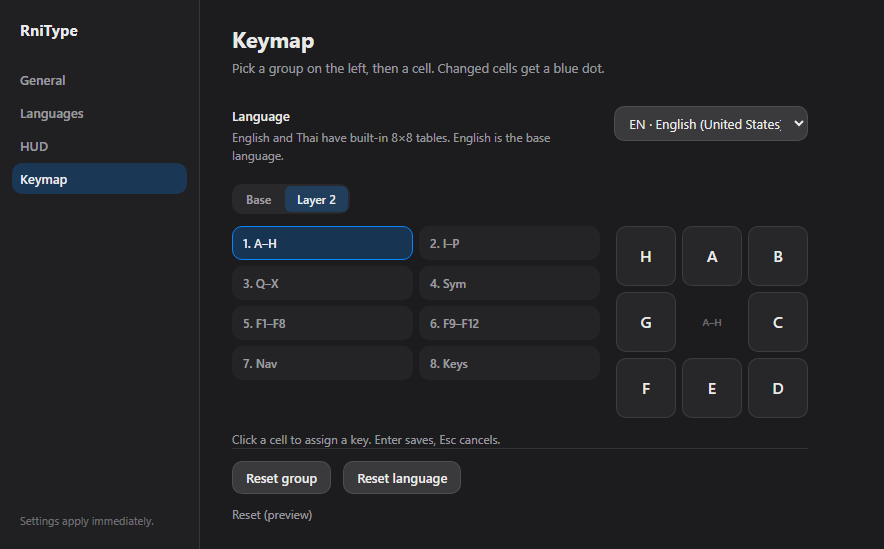
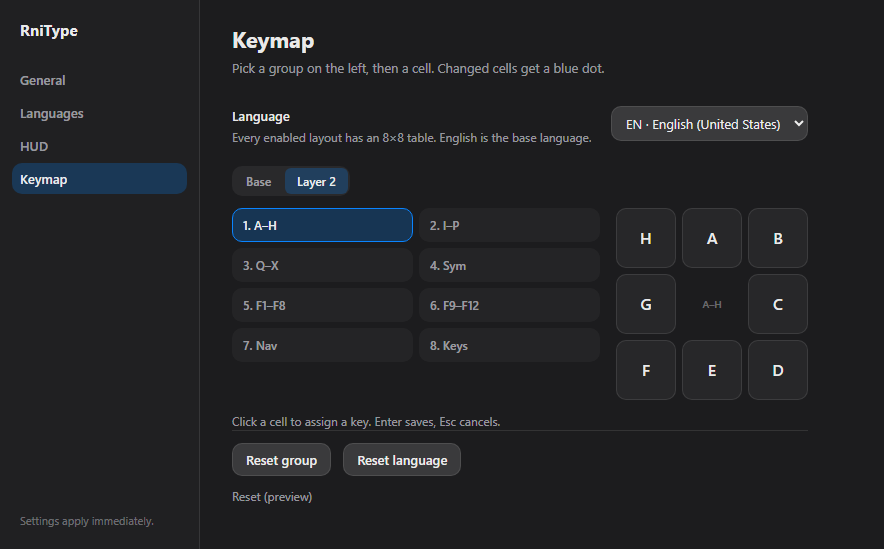
docs: ADR-28/29 + handoff v1.2 for universal layouts and P6 stats

diff --git a/project menager/Design/HANDOFF.md b/project menager/Design/HANDOFF.md
@@ -1,11 +1,11 @@
 ---
 title: HANDOFF — RniType (อ่านก่อนเริ่ม session ใหม่)
-status: v1.1
+status: v1.2
 updated: 2026-11-16
 tags: [handoff]
 ---
 
-# HANDOFF — RniType v1.1 (2026-11-16)
+# HANDOFF — RniType v1.2 (2026-11-16)
 
 > เอกสารนี้ทำให้ session ใหม่ทำงานต่อได้ใน \~5 นาที · อ่านจบ = รู้ทุกอย่างที่จำเป็น
 
@@ -15,11 +15,11 @@ tags: [handoff]
 | --- | --- |
 | ผลิตภัณฑ์ | Windows background utility: จอย Xbox/DualSense ใช้ **พิมพ์แทนคีย์บอร์ด** และ **แทนเมาส์** มีหน้าตั้งค่าแบบ Logi Options+ |
 | ช่องทางขาย | Steam + itch.io (ทั้งคู่รับ .exe/.zip — ไม่ต้องใช้เอนจิน) |
-| สถานะ | **P0/P1 ปิด · P2 slice 4 · P3 slice 2 · P4/P5 slice 1–3 · P6 slice 1 · visual refresh (ADR-22) — 213 tests** |
+| สถานะ | **P0/P1 ปิด · P2 slice 4 · P3 slice 2 · P4/P5 slice 1–4 · P6 slice 1–2 · visual refresh (ADR-22) — 219 tests** |
 | สแตก | **Rust** (core) + **Tauri v2** (UI/tray) + **gilrs** (จอย, XInput) + `SendInput` (auto scancode/Unicode) |
 | แผนสำรอง | C# .NET 8 + WPF/WinUI (ถอยได้ทุกเมื่อ เอกสารใช้ร่วมกันได้) |
-| งานถัดไป | **universal QWERTY mapping** (RU/EL) หรือ **P6 ที่เหลือ** (error rate/CPU, installer) |
-| ค้างยืนยัน | owner retest §4.8 — quick bar/caret/sticky drag, exclusion/scancode, Settings, WPM, **Keymap editor** |
+| งานถัดไป | **IME passthrough** หรือ **error rate จากข้อความอ้างอิง** หรือ **installer/Steam/itch** |
+| ค้างยืนยัน | owner retest §4.8 — quick bar/caret/sticky drag, exclusion/scancode, Settings, WPM, Keymap, **RU/EL บนจอยจริง** |
 
 ## 2. การตัดสินใจที่ล็อกแล้ว (ห้ามถามซ้ำ)
 
@@ -47,7 +47,9 @@ tags: [handoff]
 23. **P3 slice 2 (ADR-24)**: **exclusion/UIPI guard** ตรวจ foreground ทุก 250 ms → exe ใน `system.exclusion` หรือ target elevated → หยุด `session.step`, HUD `disabled` + เหตุผล, กลับมาเป็น mode เดิม · **scancode path อัตโนมัติ** (`VkKeyScanExW` + `MapVirtualKeyExW` ตาม HKL ของ foreground) → เกม/IME เห็นเหมือนคีย์บอร์ดจริง, พิมพ์ไม่ได้ = Unicode fallback, `--no-scancode` ปิดได้ · **`timeBeginPeriod(1)`** ระหว่างรัน loop — [[24-target-guard-scancode-timer]]
 24. **P5 slice 2 (ADR-25)**: **General** = status (`get_status`/`app:status`) + Pause + **exclusion list UI** · **Languages** = `GetKeyboardLayoutList` → EN/TH built-in แสดงเสมอ, EN = base (locked), ภาษาอื่นต้องมี mapping, เปิดได้ ≤ 8 · **live reload** `config_rev` → runtime เปลี่ยนภาษา/pivot clamp ภายใน 250 ms · Reset แยก section (general/hud/languages/all) — [[25-settings-general-languages-live-reload]]
 25. **P6 slice 1 (ADR-26)**: **WPM = 5 ตัวอักษร/คำ ในหน้าต่าง 60 วิ** (นับเฉพาะ `Key::Char`) · **action latency** = เวลา `session.step` (avg/max ต่อวินาที) · log `[stats]` ทุก 10 วิ + การ์ด Usage ใน Settings General (`get_stats`) — [[26-usage-stats-wpm-latency]]
-26. **P5 slice 3 (ADR-27)**: **Keymap editor** (แท็บจริง) — override รายช่องใน `languages[].overrides` key `<layer>-<group>-<sector>` (รูปเก่า `<g>-<s>` = layer 1) · core override ชนะตาราง static ทั้งพิมพ์จริง/preview · `get_keymap`/`set_keymap_cell`/`reset_keymap` + live reload · แก้ได้เฉพาะ EN/TH (ภาษาอื่นรอ universal QWERTY) — [[27-keymap-editor-overrides]]
+26. **P5 slice 3 (ADR-27)**: **Keymap editor** (แท็บจริง) — override รายช่องใน `languages[].overrides` key `<layer>-<group>-<sector>` (รูปเก่า `<g>-<s>` = layer 1) · core override ชนะตาราง static ทั้งพิมพ์จริง/preview · `get_keymap`/`set_keymap_cell`/`reset_keymap` + live reload — [[27-keymap-editor-overrides]]
+27. **P5 slice 4 (ADR-28)**: **Universal QWERTY mapping** — `Keymap` dynamic ใน core + `LangSlot { code, label, keymap }` · สร้างตารางจาก HKL ด้วย `VkKeyScanExW`+`ToUnicodeEx` (EN เป็น reference) · RU/EL พิมพ์ได้ทันที (`a→ф`) · IME ยังปิด · override key ด้วย `code` — [[28-universal-qwerty-mapping]]
+28. **P6 slice 2 (ADR-29)**: **CPU/RAM ของโปรเซส** (`GetProcessTimes`, `K32GetProcessMemoryInfo`) + **corrections** (นับ Backspace เป็น proxy ของ error rate) → log `[stats]` และการ์ด Footprint ใน Settings General — [[29-stats-cpu-memory-corrections]]
 
 ## 3. โครงสร้างไฟล์
 
@@ -83,7 +85,9 @@ project menager/
    │  ├─ 24-target-guard-scancode-timer.md ← ADR-24 exclusion/UIPI · scancode · 1 ms timer
    │  ├─ 25-settings-general-languages-live-reload.md ← ADR-25 General/Languages · exclusion UI · live reload
    │  ├─ 26-usage-stats-wpm-latency.md ← ADR-26 WPM 60 วิ · action latency · Usage cards
-   │  └─ 27-keymap-editor-overrides.md ← ADR-27 Keymap editor · override รายช่อง (EN/TH)
+   │  ├─ 27-keymap-editor-overrides.md ← ADR-27 Keymap editor · override รายช่อง
+   │  ├─ 28-universal-qwerty-mapping.md ← ADR-28 Universal QWERTY (RU/EL) จาก HKL
+   │  └─ 29-stats-cpu-memory-corrections.md ← ADR-29 CPU/RAM · corrections proxy
    └─ 05-mockup/
       ├─ hud-prototype/        ← ม็อกอัป HUD v0.11 (อ้างอิงดีไซน์ ไม่ใช่ของจริง)
       └─ hud-shots/            ← screenshot ตรวจรับ (100%/150% DPI, overlay จริง, Settings, runtime)
@@ -103,7 +107,7 @@ project menager/
 | `crates/rnitype-win/src/sendinput.rs` | Windows sender: Unicode/VK/**scancode** ของ HKL เป้าหมาย |
 | `crates/rnitype-win/src/target.rs` | foreground exe + elevated (exclusion/UIPI guard) |
 | `crates/rnitype-win/src/timer.rs` | `timeBeginPeriod(1)` แบบ RAII |
-| `crates/rnitype-win/src/language.rs` | `GetKeyboardLayoutList` → code/label/kind (layout vs IME) |
+| `crates/rnitype-win/src/language.rs` | `GetKeyboardLayoutList` → code/label/kind · **`build_keymap(klid)`** (QWERTY→layout) |
 | `crates/rnitype-core/src/keymap.rs` | ตาราง EN/TH 8×8 + ชั้น 2 + ชื่อกลุ่ม (static default) |
 | `crates/rnitype-core/src/typing.rs` | gesture → key lookup + **override รายช่อง** (`BTreeMap`) |
 | `crates/rnitype-app/src/stats.rs` | WPM (5 ตัวอักษร/คำ) · format latency/uptime |
@@ -131,13 +135,13 @@ project menager/
 | P3 win | SendInput Unicode/VK/mouse + **HWheel** + Ctrl+ASCII→VK + **Alt** + **scancode auto** + **exclusion/UIPI guard** + **1 ms timer** (56 tests) | Task Scheduler/"Run as admin" (P6) |
 | P4 HUD | renderer ครบ mode + overlay + typography + **visual refresh ADR-22** + **quickbar/caret mode** + `HudState` จริง (+ `layer`/`repeat`/`pointer`) (36 checks) | latency, pivot per-monitor/mixed-DPI |
 | Runtime | `input.rs` + `session.rs` + tray Pause + resend/heartbeat + single instance + **mouse/Nav recenter/reset** + **sticky-drag safety release** + **pivot clamp** + **guard/pause คืน mode เดิม** + **live config reload** + **WPM/commit stats** | ทดสอบ mouse/Nav/quickbar/caret กับจอยจริง |
-| P5 Settings | slice 1: หน้าต่าง + HUD tab + persist · slice 2: **General + Languages + Reset + live reload** · slice 3: **Keymap editor (EN/TH, override รายช่อง)** (28 checks) | universal QWERTY mapping (ภาษาอื่น) · profiles · autostart/runAsAdmin จริง |
-| P6 measurement | slice 1: **WPM 60 วิ + action latency + uptime** (`[stats]` log + Usage cards) | error rate, CPU, คนจริง, installer/Steam/itch |
+| P5 Settings | slice 1: HUD tab · slice 2: **General + Languages + Reset + live reload** · slice 3: **Keymap editor** · slice 4: **universal QWERTY (RU/EL)** (29 checks) | IME passthrough · profiles · autostart/runAsAdmin จริง |
+| P6 measurement | slice 1: **WPM + action latency** · slice 2: **CPU/RAM + corrections** | error rate จากข้อความอ้างอิง · คนจริง · installer/Steam/itch |
 
 ### 4.3 ขั้นถัดไป (เรียง)
 
-1. **universal QWERTY mapping** — `ToUnicodeEx` ตาม HKL ของ layout ที่ติดตั้ง → ตาราง 8×8 สำหรับ RU/EL ฯลฯ แล้วเปิด toggle ใน Languages/Keymap
-2. **P6 ที่เหลือ** — error rate (reference text/diff), CPU/RAM, ทดสอบคนจริง, installer/Steam/itch, Task Scheduler/"Run as admin"
+1. **IME passthrough** — JA/ZH/KO ส่ง scancode/VK ให้ Windows IME ประกอบ (ยังปิด toggle)
+2. **error rate จริง** — reference text + diff (เช่น พิมพ์ประโยคมาตรฐานแล้วเทียบ) + installer/Steam/itch
 3. **P2 ที่เหลือ (เล็ก)** — pivot clamp แบบ per-monitor/mixed-DPI (ตอนนี้ clamp ด้วย virtual desktop เดียว)
 
 ### 4.4 รัน / ตรวจ
@@ -151,11 +155,11 @@ crates\rnitype-app\run.ps1 --demo --settings --seconds 30  # HUD จาก state
 ```
 
 ```powershell
-cargo test --workspace                      # 213 tests
+cargo test --workspace                      # 219 tests
 node tools/contracts/validate.mjs           # 12/12
 node tools/tests/hud-smoke.mjs              # 54/54 (ม็อกอัป)
 node tools/tests/hud-typography.mjs         # 36/36 + screenshot
-node tools/tests/settings-smoke.mjs         # 28/28 + screenshot Settings
+node tools/tests/settings-smoke.mjs         # 29/29 + screenshot Settings
 ```
 
 - Tray: **คลิกซ้าย = Settings** · คลิกขวา = Pause typing / Settings… / Quit
@@ -218,6 +222,8 @@ node tools/tests/settings-smoke.mjs         # 28/28 + screenshot Settings
 16. **Reset (ADR-25)**: Reset languages → config `languages: []` (EN/TH กลับมา) · Reset general **ต้องไม่ลบ exclusion** · Reset all คืนทั้งไฟล์
 17. **Usage stats (ADR-26)**: เปิด Settings → General → พิมพ์ด้วยจอยจริง ~1 นาที → Characters/WPM ต้องขยับ · log ต้องมี `[stats] chars=… wpm=… step avg=… max=… uptime=…` ทุก 10 วิ · รายงาน WPM ไทย/อังกฤษเทียบเป้า 12/20
 18. **Keymap editor (ADR-27)**: Settings → Keymap → เลือก TH → กลุ่ม 1 → คลิกช่อง A (บนกลาง) → พิมพ์ `z` → Enter → จุดฟ้า + พิมพ์ด้วยจอยได้ `z` · Reset group → กลับ `ก` · สลับ Base/Layer 2 แล้วแก้ layer 2 ได้ · Restart แอปแล้วค่าต้องอยู่
+19. **Universal layout (ADR-28)**: ติดตั้งภาษา RU/EL ใน Windows → Settings → Languages เปิด RU → วงภาษามี `RU` · พิมพ์ด้วยจอยต้องได้ `ф`/`α` ตามตำแหน่ง QWERTY (a→ф, q→й) · แท็บ Keymap เลือก RU แล้วเห็นตารางที่สร้างมาและแก้ได้
+20. **CPU/RAM (ADR-29)**: เปิด `--pad-log`/Settings → Footprint ต้องเห็น CPU ~0–5% ตอน idle, Memory ~30–80 MB · `[stats]` มี `cpu=…% rss=… MB corrections=…`
 
 ### 4.9 P2 slice 4 (2026-11-16) — ✅ ปิดแล้ว (ADR-23)
 
@@ -273,6 +279,27 @@ node tools/tests/settings-smoke.mjs         # 28/28 + screenshot Settings
 | E2E จริง | `[keymap] th L1 G0 S0 = "z"` → runtime พิมพ์ `[type] z` → reset → กลับ `[type] ก` |
 | ตัวเลข | cargo **213** (core 100 · win 56 · app 57) · settings-smoke **28/28** · schema 12/12 |
 
+### 4.14 P5 slice 4 (2026-11-16) — ✅ ปิดแล้ว (ADR-28)
+
+| เรื่อง | ผล |
+| --- | --- |
+| Core | `Keymap` dynamic + `LangSlot { code, label, keymap }` · `TypingPipeline` table/profile · override key ด้วย `code` |
+| Win | `build_keymap(klid)`: EN reference → `VkKeyScanExW` + `ToUnicodeEx` ตาม HKL เป้าหมาย · ตรวจ lang id กัน KLID ปลอม |
+| App | `language_slots()` สร้างตารางให้ layout ที่เปิด (เก็บ klid/label/kind ตอน enable) · mode `"ru"` เปิดได้ · IME ยังปิด |
+| Keymap | `keymap_payload` ใช้ตารางจริงของ RU/EL · แก้/Reset ได้เหมือน EN/TH |
+| E2E จริง | config mode=ru + fake pad → `[type] ф к и Э 5` · WebView: `get_keymap ru` → `ф`/`Ф`, set `z` → `z`, reset → `ф` |
+| ตัวเลข | cargo **219** (core 101 · win 58 · app 60) · settings-smoke **29/29** |
+
+### 4.15 P6 slice 2 (2026-11-16) — ✅ ปิดแล้ว (ADR-29)
+
+| เรื่อง | ผล |
+| --- | --- |
+| CPU | `GetProcessTimes` delta / wall → % (เฉพาะโปรเซส RniType) |
+| Memory | `K32GetProcessMemoryInfo` WorkingSet → MB |
+| Corrections | นับ Backspace ที่ส่ง (`Session::backspaces`) — proxy ของ error rate |
+| แสดงผล | `[stats]` + การ์ด Footprint (CPU / Memory / Corrections) ใน General |
+| หลักฐานจริง | `[stats] chars=15 wpm=3.0 actions=15 corrections=0 step avg=0.004 ms max=0.729 ms cpu=3.1% rss=32 MB uptime=10s` |
+
 ## 5. คำถามที่ยังค้าง
 
 | # | เรื่อง | ข้อเสนอ |
@@ -287,7 +314,7 @@ Q1, Q2, Q5, Q15, Q16, Q17 = ตัดสินแล้ว
 ## 6. Environment & เคล็ดลับ debug
 
 - vault = `D:\Erin's Works\Programming\RniType` — เขียนเฉพาะในนี้ · MCP `nizylanote` เรียก `vault_info` ก่อนเขียน
-- **Git**: commit ก่อน session นี้ `4cba441` (handoff v0.8) · P5 slice 2 = `d3f17a2` · P6 slice 1 = `c3a7404` · P5 slice 3 = `741a60c` (+ docs commit ถัดจากนั้น) · commit งานเป็นชุด `feat(...)` + `docs(...)` (`.nznote/`, `.opencode/` ถูก ignore)
+- **Git**: commit ก่อน session นี้ `4cba441` (handoff v0.8) · P5 slice 2 = `d3f17a2` · P6 slice 1 = `c3a7404` · P5 slice 3 = `741a60c` · universal + P6 slice 2 = `31df934` (+ docs commit ถัดจากนั้น) · commit งานเป็นชุด `feat(...)` + `docs(...)` (`.nznote/`, `.opencode/` ถูก ignore)
 - **เทอร์มินัล cp874** → log ไทยใน console เป็น `???` (ไม่ใช่บั๊ก) · ไฟล์เป็น UTF-8
 - **PowerShell กิน `--` ตัวแรก** → `run.ps1` เติมให้แล้ว ใช้ `run.ps1 --seconds 30`
 - `Chrome_WidgetWin_0 ... 1412` ตอนปิด = WebView2 noise ไม่มีผล
@@ -299,6 +326,10 @@ Q1, Q2, Q5, Q15, Q16, Q17 = ตัดสินแล้ว
 - **latency** วัดฝั่งเรา (`session.step`) ไม่รวมเวลา OS/เกมประมวลผลคีย์
 - **Keymap editor** แก้ได้เฉพาะ EN/TH (มีตารางใน core) · ภาษาอื่นยัง `Needs mapping` จนมี universal QWERTY
 - override เก็บเป็น diff (`<layer>-<g>-<s>`) ไม่ใช่ตารางเต็ม — config ที่เขียนมือต้องใช้รูปแบบนี้
+- **IME (JA/ZH/KO) ยังเปิดไม่ได้** — toggle ตอบ `LANG_NOT_FOUND`; ต้องทำ passthrough scancode ก่อน
+- **universal table** สร้างจาก KLID ของ layout ที่ติดตั้ง/โหลดได้ · ถ้า Windows ไม่มี layout นั้นจริง ๆ จะไม่มีแถวให้เปิด (เขียน config เองได้ถ้ามี KLID)
+- **CPU ที่แสดงไม่รวม WebView2 child** — ตัวเลข Task Manager จะสูงกว่านี้
+- **corrections ≠ error rate** — เป็นจำนวน Backspace เท่านั้น ยังไม่มี diff กับข้อความอ้างอิง
 - **Chrome headless**: `C:\Users\User\AppData\Local\ms-playwright\chromium-1208\chrome-win64\chrome.exe` (`CHROME_PATH`)
 - เครื่องนี้ 2 จอ: virtual desktop 3840×1080 เริ่มที่ x = −1920 · จอหลัก 1920×1080 (pivot เริ่มที่กลางจอหลัก)
 

diff --git a/project menager/Design/04-decisions/28-universal-qwerty-mapping.md b/project menager/Design/04-decisions/28-universal-qwerty-mapping.md
@@ -1,0 +1,82 @@
+---
+title: ADR-28 — Universal QWERTY mapping (P5 slice 4)
+status: accepted
+updated: 2026-11-16
+tags: [decision, i18n, keymap, win]
+---
+
+# ADR-28 — Universal QWERTY mapping สำหรับ layout ที่ติดตั้งใน Windows
+
+## บริบท
+
+P5 slice 3 เปิดแท็บ Keymap แล้ว แต่แก้ได้เฉพาะ EN/TH เพราะ core ยัง lookup ตาราง static
+(`keymap::lookup_layer`) · ภาษา RU/EL ขึ้น `Needs mapping` และ toggle ปิด
+ADR-14 ต้องการให้ภาษาอื่น map จาก **ตำแหน่ง QWERTY** ของ layout นั้นโดยอัตโนมัติ
+
+## การตัดสินใจ
+
+### 1. Core: `Keymap` แบบ dynamic + profile ต่อ slot
+
+```rust
+pub struct Keymap {
+    pub cells:  [[Key; 8]; 8],          // layer 1
+    pub cells2: [[Option<Key>; 8]; 8],  // layer 2
+}
+
+pub struct LangSlot {
+    pub index: u8,
+    pub lang: Lang,        // EN/TH = ชื่อกลุ่มเดิม · layout อื่นใช้กลุ่มของ EN
+    pub code: String,      // "ru", "el" — key ของ override/HUD
+    pub label: String,     // "Russian (Russia)"
+    pub keymap: Option<Keymap>, // None = built-in ของ lang
+}
+
+pub struct TypingPipeline {
+    lang, code, label,
+    table: Option<Keymap>,
+    overrides: BTreeMap<(String, u8, u8, u8), Option<Key>>, // key ด้วย code
+}
+```
+
+- `key_at()`: override → `table` (ถ้ามี) → built-in
+- `set_profile(lang, code, label, table)` ใช้ตอนสลับภาษา
+- override เปลี่ยนจาก key ด้วย `Lang` → **`code`** เพื่อไม่ชนกับ EN
+
+### 2. สร้างตารางจาก HKL (`rnitype-win/src/language.rs`)
+
+```
+target    = LoadKeyboardLayoutW(klid, KLF_NOTELLSHELL)
+reference = LoadKeyboardLayoutW("00000409")        // EN
+for each cell ในตาราง EN:
+  VkKeyScanExW(char, reference)  → VK + shift state
+  MapVirtualKeyExW(VK, reference) → scan
+  ToUnicodeEx(VK, scan, shift?, target) → ตัวอักษรของ layout เป้าหมาย
+  ถ้าไม่ได้ (dead key/ต้อง Ctrl/AltGr/ผลลัพธ์แปลก) → คงตัวอักษร EN ไว้
+```
+
+| เรื่อง | ค่า |
+| --- | --- |
+| layer 2 | แปลงเฉพาะช่อง `Char` · ปุ่ม named (F1/Tab/…) คงเดิม |
+| dead key | เรียก `ToUnicodeEx` ซ้ำ 1 ครั้ง · ถ้ายังไม่ได้ผล 1 หน่วย → คงค่า EN |
+| surrogate pair | รวม high/low เป็น char เดียว |
+| KLID ปลอม | ตรวจ lang id 4 หลักท้ายของ KLID กับ HKL ที่โหลดได้ — ไม่ตรง = `None` |
+| IME | ยังไม่เปิด (JA/ZH/KO) — ต้อง passthrough scancode แยก slice |
+
+### 3. App
+
+- `language_slots(config)` → `[EN] + enabled` โดย layout อื่นสร้างตารางจาก `klid`
+  (config entry หรือ layout ที่ตรวจพบ) · สร้างไม่ได้ = log แล้วข้าม
+- `defaults.typing.mode = "ru"` เปิด session ด้วยภาษานั้นทันที (activate หลัง set slots)
+- Language toggle: เปิด layout ที่ติดตั้งได้ (เก็บ `klid`/`label`/`kind` ลง config) · IME ตอบ `LANG_NOT_FOUND`
+- `keymap_payload` ใช้ตารางจริง (built-in หรือสร้างจาก KLID) → แท็บ Keymap แก้ RU/EL ได้
+- live reload เดิม: เปลี่ยนภาษา/override มีผลภายใน 250 ms
+
+## ผลที่ตามมา
+
+- `cargo test --workspace` = **219 tests** (core 101 · win 58 · app 60)
+  - win: EN identity table, RU `a→ф`/`A→Ф`
+  - core: custom table ชนะ built-in, override ยังชนะ custom
+- E2E จริง (config mode=ru + fake pad): `[type] ф к и Э 5`
+- settings-smoke **29/29** · contracts 12/12
+- ยังไม่ทำ: IME passthrough, layout ที่ไม่ได้ติดตั้งแต่มี KLID (config เขียนมือ),
+  shift-state ที่ต้องใช้ AltGr, ตาราง cache ลง config

diff --git a/project menager/Design/03-engineering/02-roadmap-and-smoke-tests.md b/project menager/Design/03-engineering/02-roadmap-and-smoke-tests.md
@@ -49,7 +49,7 @@ tags: [plan, testing]
 | `tools/contracts/validate.mjs` | ตรวจ `hud-state.samples.json` + `config.sample.json` กับ schema | **12/12** |
 | `tools/tests/hud-smoke.mjs` | ขับม็อกอัป v0.11 ด้วย CDP (วง/คำสั่ง/โหมด/สถานะ) | **54/54** |
 | `tools/tests/hud-typography.mjs` | ตรวจขนาดขั้นต่ำ/การชนกัน/contrast/emphasis + quick bar/caret + screenshot 100%–150% DPI | **36/36** |
-| `cargo test --workspace` | core 100 · win 56 · app 57 (config/input/session/stats) | **213/213** |
+| `cargo test --workspace` | core 101 · win 58 · app 60 (config/input/session/stats) | **219/219** |
 
 **ชุดประโยคทดสอบ**: ใช้ 500 phrases ของ MacKenzie & Soukoreff (มาตรฐานงานวิจัย text entry)
 → ผลของเราจะเทียบกับงานวิจัย (TwoStick 13–14.9 WPM) ได้ตรงๆ
@@ -72,6 +72,8 @@ tags: [plan, testing]
 | 2026-11-16 | P5 slice 2 | — | — | — | — | ADR-25: General (status/pause/exclusion UI) · Languages (HKL scan, EN/TH built-in, IME badge) · `config_rev` live reload · reset แยกส่วน · **201 tests** · settings-smoke **19/19** · E2E ปิด TH → `languages=0` |
 | 2026-11-16 | P6 slice 1 | 3.0\* | — | — | avg 0.005 / max 0.748 (action) | ADR-26: WPM 60 วิ (5 ตัวอักษร/คำ) · action latency avg/max · `[stats]` ทุก 10 วิ · Usage cards · **205 tests** · settings-smoke **20/20** · \*fake-pad steady ~15–17 WPM (ยังไม่ใช่ผู้ใช้จริง) |
 | 2026-11-16 | P5 slice 3 | — | — | — | — | ADR-27: Keymap editor EN/TH · override `<layer>-<g>-<s>` · live reload · **213 tests** · settings-smoke **28/28** · E2E ตั้ง override → พิมพ์ `z` → reset → `ก` |
+| 2026-11-16 | P5 slice 4 | — | — | — | — | ADR-28: universal QWERTY จาก HKL (RU `a→ф`, EL `a→α`) · `Keymap` dynamic + `LangSlot {code,label,keymap}` · **219 tests** · E2E `[type] ф к и Э 5` |
+| 2026-11-16 | P6 slice 2 | — | — | — | cpu 3.1% · rss 32 MB | ADR-29: CPU/RAM ของโปรเซส + corrections (Backspace proxy) · Footprint cards · log `cpu=3.1% rss=32 MB` |
 
 ## 5. ความเสี่ยงและทางถอย
 
@@ -97,7 +99,7 @@ tags: [plan, testing]
 | 4 | วัดผล UI กับคน 3–5 คน | เวลาเปิดวงคำสั่ง < 2 s, เปลี่ยนกลุ่มถูกใน < 1.2 s, คะแนน "รก" ลดลง vs v0.7 |
 | 5 | ปรับ pill สถานะให้ครบ (mode/selection/layer/shift/arrow) | ไม่มีสถานะไหนต้องเดา |
 | 6 | Onboarding เรื่อง pivot/Nav | ผู้ใช้ย้าย UI ได้เองโดยไม่ต้องเปิดเอกสาร |
-| 7 | **Language support (v1)**: ตรวจ layout, QWERTY default, override, IME passthrough | เปิด RU/EL พิมพ์ได้, IME ประกอบข้อความเหมือนคีย์บอร์ดจริง |
+| 7 | **Language support (v1)**: ตรวจ layout, QWERTY default, override, IME passthrough | ✅ layout + override + QWERTY (P5 slice 3–4) · IME passthrough ยังไม่ทำ |
 | 8 | **Settings window แยก** (English) + Reset all | ตั้งค่า/รีเซ็ตได้โดยไม่แตะ overlay |
 | 8a | Settings แท็บ HUD: text size / font / reset + persist | ✅ P5 slice 1 — [[16-hud-typography-and-fonts]] |
 | 8b | Settings แท็บ General / Languages | ✅ P5 slice 2 — [[25-settings-general-languages-live-reload]] |

diff --git a/project menager/Design/03-engineering/contracts/ipc.md b/project menager/Design/03-engineering/contracts/ipc.md
@@ -5,6 +5,7 @@
 > v1.2 (2026-11-16) — ระบุรูปแถวของ `rescan_languages` / `set_language_enabled` และ `get_status` ที่ P5 slice 2 ใช้ (additive, ADR-25)
 > v1.3 (2026-11-16) — เพิ่ม `get_stats` (chars/WPM/action latency/uptime) สำหรับ Usage cards (additive, ADR-26)
 > v1.4 (2026-11-16) — เพิ่ม `get_keymap` / `set_keymap_cell` / `reset_keymap` สำหรับ Keymap editor (additive, ADR-27)
+> v1.5 (2026-11-16) — `get_stats` เพิ่ม CPU/RAM/corrections (ADR-29) · `get_keymap` ใช้ได้กับ layout ที่สร้างจาก KLID (ADR-28)
 > ไฟล์นี้คือสัญญาที่ P3 (runtime), P4 (HUD), P5 (Settings) ต้องยึด
 > เปลี่ยนชื่อ/รูป payload = ต้อง bump `version` และแจ้ง lead
 
@@ -47,7 +48,7 @@
 | `import_profile` | `{ json }` | `Config` |
 | `set_paused` | `{ paused: bool }` | `{ paused: bool }` |
 | `get_status` | — | `app:status` payload |
-| `get_stats` | — | `{ chars, wpm, actions, stepAvgUs, stepMaxUs, uptimeSecs }` |
+| `get_stats` | — | `{ chars, wpm, actions, stepAvgUs, stepMaxUs, uptimeSecs, cpuPercent, rssBytes, corrections }` |
 | `get_keymap` | `{ code }` | `KeymapPayload` (ดู §5) |
 | `set_keymap_cell` | `{ code, layer, group, sector, text }` | `KeymapPayload` |
 | `reset_keymap` | `{ code, group? }` | `KeymapPayload` |
@@ -139,11 +140,15 @@ Settings ──invoke save_config──▶ app ──validate──▶ config.js
   "actions": 75,
   "stepAvgUs": 4,
   "stepMaxUs": 846,
-  "uptimeSecs": 51
+  "uptimeSecs": 51,
+  "cpuPercent": 3.1,
+  "rssBytes": 33554432,
+  "corrections": 0
 }
 ```
 
 `wpm` = 5 ตัวอักษร/คำ จาก commits ใน 60 วิ · `step*Us` = เวลา `session.step` (µs) ต่อวินาทีล่าสุด
+`cpuPercent` = เฉพาะโปรเซส RniType (ไม่รวม WebView2 child) · `corrections` = จำนวน Backspace (proxy ของ error rate)
 
 ### `KeymapPayload` — Keymap editor (ADR-27)
 
@@ -163,6 +168,7 @@ Settings ──invoke save_config──▶ app ──validate──▶ config.js
 
 `cells` = ค่าที่ใช้จริง (override ชนะ) · `defaults` = ตารางใน core · `""` = ช่องว่าง (layer 2)
 override เก็บใน `languages[].overrides` key `<layer>-<group>-<sector>` (รูปเก่า `<g>-<s>` = layer 1)
+`get_keymap` ใช้ได้กับทุกภาษาที่เปิด: EN/TH = built-in · layout อื่นสร้างจาก KLID (`build_keymap`)
 
 ## 6. Error codes
 

diff --git a/project menager/Design/04-decisions/29-stats-cpu-memory-corrections.md b/project menager/Design/04-decisions/29-stats-cpu-memory-corrections.md
@@ -1,0 +1,48 @@
+---
+title: ADR-29 — P6 slice 2: CPU/RAM + corrections proxy
+status: accepted
+updated: 2026-11-16
+tags: [decision, measurement, stats]
+---
+
+# ADR-29 — P6 slice 2: CPU/RAM ของโปรเซส + corrections
+
+## บริบท
+
+P6 slice 1 วัด WPM และ action latency ได้แล้ว แต่ roadmap ยังต้องการ CPU และ "error rate"
+ก่อนตัดสินว่าแอปเบาพอสำหรับ background utility และก่อนทดสอบคนจริง
+
+## การตัดสินใจ
+
+### 1. CPU ของโปรเซส
+
+- `GetProcessTimes` → kernel+user time (100 ns) · เก็บ sample ก่อนหน้าใน loop
+- `cpu_percent(delta_cpu_100ns, delta_wall_ms)` = CPU time / wall time × 100 (ปัด 0.1)
+- วัดเฉพาะโปรเซส RniType (ไม่รวม WebView2 child processes — บันทึกเป็นข้อจำกัด)
+- แสดง/лог ทุก 1/10 วินาที
+
+### 2. Memory
+
+- `K32GetProcessMemoryInfo` → `WorkingSetSize` (bytes) → MB
+- ใช้ Working Set (ไม่ใช่ private bytes) เพราะเป็นตัวเลขที่ผู้ใช้เห็นใน Task Manager
+
+### 3. Corrections (proxy ของ error rate)
+
+- นับ `Action::Key(Key::Named(Backspace))` ที่ส่งออก (`Session::backspaces`)
+- `corrections` = จำนวนครั้งที่ผู้ใช้ลบ — **ไม่ใช่ error rate จริง** เพราะไม่รู้ข้อความอ้างอิง
+- ใช้เป็นสัญญาณคุณภาพ: ถ้า corrections/chars สูงผิดปกติ = mapping หรือ gesture มีปัญหา
+
+### 4. ที่แสดงผล
+
+| ที่ | ข้อมูล |
+| --- | --- |
+| log ทุก 10 วิ | `[stats] chars=15 wpm=3.0 actions=15 corrections=0 step avg=0.004 ms max=0.729 ms cpu=3.1% rss=32 MB uptime=10s` |
+| `get_stats` | เพิ่ม `cpuPercent`, `rssBytes`, `corrections` (additive) |
+| Settings → General → Footprint | CPU · Memory · Corrections + คำอธิบายว่า corrections เป็น proxy |
+
+## ผลที่ตามมา
+
+- `cargo test --workspace` = **219 tests** (core 101 · win 58 · app 60) รวม `cpu_percent`/`format_mb`
+- E2E จริง: `[stats] … cpu=3.1% rss=32 MB corrections=0 uptime=10s`
+- ยังไม่ทำ: error rate จากข้อความอ้างอิง (diff), CPU ของ WebView2 child, RAM peak/private,
+  installer/Steam/itch

diff --git a/project menager/Design/README.md b/project menager/Design/README.md
@@ -69,6 +69,8 @@ updated: 2026-11-15
 | [[25-settings-general-languages-live-reload]] | ADR: Settings General/Languages + exclusion UI + live config reload |
 | [[26-usage-stats-wpm-latency]] | ADR: WPM 60 วิ · action latency · Usage cards + `[stats]` log |
 | [[27-keymap-editor-overrides]] | ADR: Keymap editor + override รายช่อง (EN/TH) + live reload |
+| [[28-universal-qwerty-mapping]] | ADR: Universal QWERTY จาก HKL (RU/EL) — core `Keymap` dynamic + `build_keymap` |
+| [[29-stats-cpu-memory-corrections]] | ADR: CPU/RAM ของโปรเซส + corrections proxy |
 | [[hud-v0.9]] | บันทึก HUD: ภาพเทียบ A/B (v0.9) + สรุป v0.10 |
 | `05-mockup/hud-prototype/` | ม็อกอัป HUD v0.11 (เน้น EN+TH, หลายภาษา, Settings window, Keymap editor, pivot) |
 | `05-mockup/hud-shots/` | screenshot ตรวจรับ typography (100%/150% DPI), overlay จริง, Settings |
@@ -93,7 +95,7 @@ updated: 2026-11-15
 | หลักการ HUD | วงใน = สิ่งที่ LS เลือก · วงนอก = สิ่งที่ RS เลือก · idle เหลือ pill สถานะ (เปิดวงตลอดได้) |
 | ความปลอดภัย | **exclusion list** ต่อ exe (wildcard) + **UIPI guard** (target elevated) → หยุดส่ง + pill บอกเหตุผล · **scancode อัตโนมัติ** ตาม layout เป้าหมาย (เกม/IME) + Unicode fallback — [[24-target-guard-scancode-timer]] |
 | เทคโนโลยี | Rust + Tauri v2 + gilrs/SDL3 + SendInput (แผนสำรอง: C# .NET 8) — ดู [[03-stack-rust]] |
-| สถานะ | **P0/P1 ปิด · P2 slice 4 · P3 slice 2 · P4/P5 slice 1–3 · P6 slice 1 · visual refresh (ADR-22) — 213 tests** |
+| สถานะ | **P0/P1 ปิด · P2 slice 4 · P3 slice 2 · P4/P5 slice 1–4 · P6 slice 1–2 · visual refresh (ADR-22) — 219 tests** |
 
 ## หมายเหตุการทำงาน
 

diff --git a/project menager/Design/03-engineering/01-architecture.md b/project menager/Design/03-engineering/01-architecture.md
@@ -63,7 +63,8 @@ tags: [architecture, windows, rust, tauri]
 - **EN/TH เป็น built-in**: มีตาราง 8×8 ในแอปเสมอ (แสดงแม้ Windows ไม่ได้ติดตั้ง layout) · EN = base (ปิดไม่ได้)
 - **จำแนกชนิด**: layout ที่มี IME (JA/ZH/KO) → `kind: ime`; ที่เหลือ → `layout`
 - **สร้าง 8×8 เริ่มต้น** (`layout`): ใช้ `ToUnicodeEx` กับ HKL ของภาษานั้นทีละ VK (shift states)
-  → ได้ตัวอักษรตาม **ตำแหน่ง QWERTY**; cache ไว้ใน config (ยังไม่ทำ — รอ universal mapping)
+  → ได้ตัวอักษรตาม **ตำแหน่ง QWERTY** — implemented P5 slice 4 ([[28-universal-qwerty-mapping]])
+  `Keymap` dynamic ใน core + `build_keymap(klid)` ฝั่ง win · ภาษาอื่นเก็บ `klid/label/kind` ใน config
 - **ไทย/อังกฤษ**: ใช้ตารางที่ออกแบบไว้ ([[02-keymap-en-th]]) เป็นค่าเริ่มต้น
 - **override**: `config.languages[].overrides` เก็บเฉพาะช่องที่ผู้ใช้แก้ (key `<layer>-<group>-<sector>`)
   — implemented P5 slice 3 ([[27-keymap-editor-overrides]]); แก้ได้เฉพาะ EN/TH จนมี universal mapping
